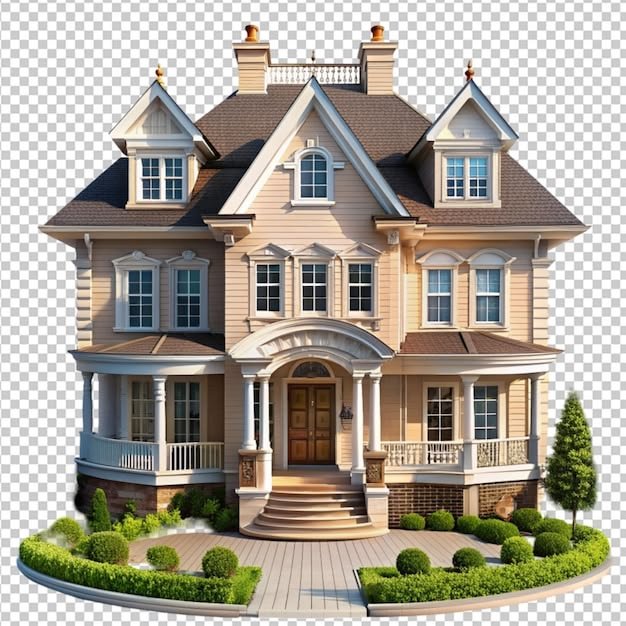
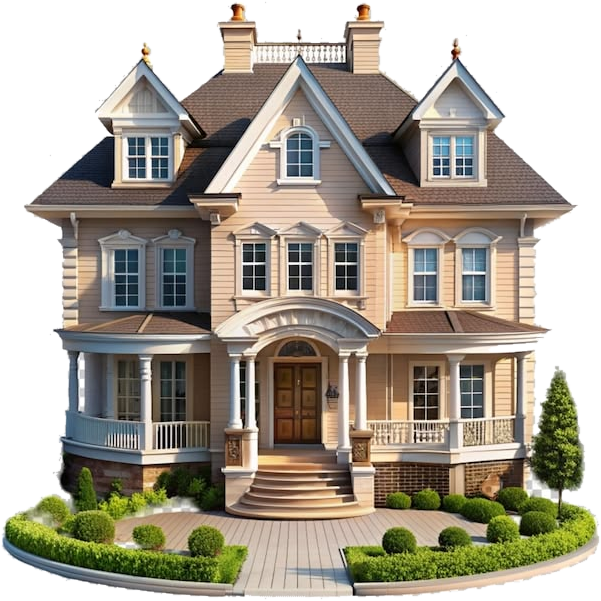
feat: adding hiding blocks function

diff --git a/apps/web/src/vinvite/templates/birthday-tuscan/template.html b/apps/web/src/vinvite/templates/birthday-tuscan/template.html
@@ -159,7 +159,20 @@ section{position:relative;padding:5.5rem 1.4rem;overflow:hidden;}
 }
 .hero-mansion.up{transform:translateX(-50%) translateY(0);opacity:1;}
 .hero-mansion.empty{display:none;}
-.hero-content{position:relative;z-index:5;padding:1.4rem;max-width:440px;}
+
+/* Blocks switched off in the builder (hidden.<key> === true). */
+.opt-off{display:none!important;}
+
+/* Mandatory V-connect attribution — shown on every invitation. */
+#vconnect{
+  position:relative;z-index:4;display:flex;flex-direction:column;align-items:center;gap:.7rem;
+  padding:2.2rem 1.2rem 2.6rem;background:#0b1018;color:var(--cream);text-align:center;
+  border-top:1px solid rgba(233,210,154,.14);
+}
+#vconnect img{width:64px;height:64px;display:block;opacity:.95;}
+#vconnect span{font-size:.82rem;letter-spacing:.06em;text-transform:uppercase;opacity:.75;font-family:'Cormorant Garamond',Georgia,serif;}
+/* Sits a little below centre so the name clears the bright upper sky. */
+.hero-content{position:relative;z-index:5;padding:1.4rem;max-width:440px;margin-top:9svh;}
 .hero-content .overline{color:var(--cream);opacity:0;transform:translateY(14px);transition:all 1s var(--ease) .3s;}
 .hero-name{
   font-family:'Great Vibes',cursive;font-size:clamp(3.4rem,20vw,7rem);line-height:1.05;margin:.4rem 0;
@@ -450,7 +463,7 @@ img.broken{background:linear-gradient(135deg,var(--sage-soft),var(--champagne));
       <div class="overline" data-t="youAreInvited">Приглашение</div>
       <div class="calligraphy" data-bind="honoreeName"></div>
       <div class="env-card-rule"></div>
-      <div class="overline" data-bind="ageLabel"></div>
+      <div class="overline" data-opt="age" data-bind="ageLabel"></div>
     </div>
     <div class="env-flap" aria-hidden="true">
       <svg viewBox="0 0 380 140" preserveAspectRatio="none">
@@ -496,7 +509,7 @@ img.broken{background:linear-gradient(135deg,var(--sage-soft),var(--champagne));
       <p class="overline" data-bind="heroKicker"></p>
       <h1 class="hero-name" data-bind="honoreeName"></h1>
       <p class="hero-sub" data-bind="heroSub"></p>
-      <p class="hero-age" data-bind="ageLabel"></p>
+      <p class="hero-age" data-opt="age" data-bind="ageLabel"></p>
       <p class="hero-meta">
         <span data-bind="dateLong"></span>
         <span class="dot">·</span>
@@ -511,7 +524,7 @@ img.broken{background:linear-gradient(135deg,var(--sage-soft),var(--champagne));
   </section>
 
   <!-- Invitation message -->
-  <section id="message">
+  <section id="message" data-opt="message">
     <div class="wrap">
       <p class="overline section-kicker reveal" data-t="withWarmth">С теплом и радостью</p>
       <div class="msg-lines">
@@ -532,7 +545,7 @@ img.broken{background:linear-gradient(135deg,var(--sage-soft),var(--champagne));
   </section>
 
   <!-- Countdown -->
-  <section id="countdown">
+  <section id="countdown" data-opt="countdown">
     <div class="wrap">
       <p class="overline section-kicker reveal" data-t="countingDays">Считаем дни</p>
       <h2 class="section-title reveal reveal-d1" data-t="untilWeCelebrate">До праздника</h2>
@@ -552,7 +565,7 @@ img.broken{background:linear-gradient(135deg,var(--sage-soft),var(--champagne));
   </section>
 
   <!-- Details -->
-  <section id="details">
+  <section id="details" data-opt="details">
     <div class="wrap">
       <p class="overline section-kicker reveal" data-t="theParticulars">Детали</p>
       <h2 class="section-title reveal reveal-d1" data-t="eventDetails">О празднике</h2>
@@ -579,7 +592,7 @@ img.broken{background:linear-gradient(135deg,var(--sage-soft),var(--champagne));
   </section>
 
   <!-- Venue -->
-  <section id="venue">
+  <section id="venue" data-opt="venue">
     <div class="wrap">
       <p class="overline section-kicker reveal" data-t="whereWeGather">Где мы соберёмся</p>
       <h2 class="section-title reveal reveal-d1" data-bind="venueName"></h2>
@@ -598,7 +611,7 @@ img.broken{background:linear-gradient(135deg,var(--sage-soft),var(--champagne));
   </section>
 
   <!-- Gallery -->
-  <section id="gallery">
+  <section id="gallery" data-opt="gallery">
     <div class="wrap">
       <p class="overline section-kicker reveal" data-t="aGlimpse">Моменты</p>
       <h2 class="section-title reveal reveal-d1" data-t="galleryTitle">Галерея</h2>
@@ -617,7 +630,7 @@ img.broken{background:linear-gradient(135deg,var(--sage-soft),var(--champagne));
   </section>
 
   <!-- Program -->
-  <section id="program">
+  <section id="program" data-opt="program">
     <div class="wrap">
       <p class="overline section-kicker reveal" data-t="theEvening">Программа</p>
       <h2 class="section-title reveal reveal-d1" data-t="orderOfNight">Как пройдёт вечер</h2>
@@ -627,7 +640,7 @@ img.broken{background:linear-gradient(135deg,var(--sage-soft),var(--champagne));
   </section>
 
   <!-- Gifts + gift card -->
-  <section id="gifts">
+  <section id="gifts" data-opt="gifts">
     <div class="wrap">
       <div class="gifts-illus reveal" aria-hidden="true">
         <svg viewBox="0 0 24 24" fill="none" stroke="currentColor" stroke-width="1.3"><rect x="3" y="8" width="18" height="13" rx="1"/><path d="M3 12h18M12 8v13M12 8c-2-4-6-4-6-1s4 1 6 1c2 0 6 2 6-1s-4-3-6 1z"/></svg>
@@ -651,7 +664,7 @@ img.broken{background:linear-gradient(135deg,var(--sage-soft),var(--champagne));
   </section>
 
   <!-- RSVP -->
-  <section id="rsvp">
+  <section id="rsvp" data-opt="rsvp">
     <div class="wrap">
       <p class="overline section-kicker reveal" data-t="kindlyRespond">Пожалуйста, ответьте</p>
       <h2 class="section-title reveal reveal-d1">RSVP</h2>
@@ -702,7 +715,7 @@ img.broken{background:linear-gradient(135deg,var(--sage-soft),var(--champagne));
   </section>
 
   <!-- Contacts -->
-  <section id="contacts">
+  <section id="contacts" data-opt="contacts">
     <div class="wrap">
       <p class="overline section-kicker reveal" data-t="questions">Остались вопросы?</p>
       <h2 class="section-title reveal reveal-d1" data-t="contactsTitle">Контакты</h2>
@@ -712,7 +725,7 @@ img.broken{background:linear-gradient(135deg,var(--sage-soft),var(--champagne));
   </section>
 
   <!-- Final scene -->
-  <section id="final">
+  <section id="final" data-opt="final">
     <div class="final-sky" id="finalSky" aria-hidden="true"></div>
     <img class="final-mansion empty" id="finalMansion" alt="" aria-hidden="true">
     <div id="particles" aria-hidden="true"></div>
@@ -723,9 +736,15 @@ img.broken{background:linear-gradient(135deg,var(--sage-soft),var(--champagne));
       <p class="final-love reveal reveal-d3" data-t="withLove">С любовью</p>
     </div>
   </section>
+
+  <!-- Mandatory attribution (not hideable) -->
+  <footer id="vconnect">
+    <img id="vconnectLogo" alt="V-connect" width="64" height="64">
+    <span data-t="developedBy">Разработано V-connect</span>
+  </footer>
 </main>
 
-<button id="music-btn" class="hidden" aria-pressed="false">
+<button id="music-btn" class="hidden" data-opt="music" aria-pressed="false">
   <span class="ic-play" aria-hidden="true">
     <svg width="20" height="20" viewBox="0 0 24 24" fill="currentColor"><path d="M8 5v14l11-7z"/></svg>
   </span>
@@ -773,7 +792,7 @@ var UI = {
     savedYes:'Мы очень рады! Ваш ответ получен.', savedNo:'Спасибо, что сообщили. Нам будет вас не хватать.',
     questions:'Остались вопросы?', contactsTitle:'Контакты',
     phone:'Телефон', telegram:'Telegram', instagram:'Instagram',
-    withLove:'С любовью', birthday:'День рождения', untilLate:'до позднего вечера'
+    withLove:'С любовью', developedBy:'Этот продукт разработан компанией V-connect', birthday:'День рождения', untilLate:'до позднего вечера'
   },
   uz: {
     youAreInvited:'Taklifnoma', tapToOpen:'Ochish uchun bosing', skipIntro:'Otkazib yuborish',
@@ -793,7 +812,7 @@ var UI = {
     savedYes:'Juda xursandmiz! Javobingiz qabul qilindi.', savedNo:'Xabar berganingiz uchun rahmat. Sizni soginamiz.',
     questions:'Savollaringiz bormi?', contactsTitle:'Kontaktlar',
     phone:'Telefon', telegram:'Telegram', instagram:'Instagram',
-    withLove:'Mehr bilan', birthday:'Tugilgan kun', untilLate:'kech tungacha'
+    withLove:'Mehr bilan', developedBy:'Ushbu mahsulot V-connect tomonidan ishlab chiqilgan', birthday:'Tugilgan kun', untilLate:'kech tungacha'
   },
   en: {
     youAreInvited:'You are invited', tapToOpen:'Tap to open', skipIntro:'Skip intro',
@@ -813,7 +832,7 @@ var UI = {
     savedYes:'We are delighted! Your response has been saved.', savedNo:'Thank you for letting us know. You will be missed.',
     questions:'Any questions?', contactsTitle:'Contacts',
     phone:'Phone', telegram:'Telegram', instagram:'Instagram',
-    withLove:'With love', birthday:'Birthday', untilLate:'until late'
+    withLove:'With love', developedBy:'This product was developed by V-connect', birthday:'Birthday', untilLate:'until late'
   }
 };
 
@@ -930,7 +949,8 @@ function playHero(){ hero.classList.add('play'); if (heroMansion) heroMansion.cl
    the builder (hero.mansionImage / hero.dayImage / hero.nightImage); otherwise
    we fall back to the bundled defaults served from the host origin. A mansion
    that fails to load (e.g. none provided) hides its layer gracefully. */
-var ASSET = (window.__ORIGIN__ || '') + '/tuscan/';
+var ORIGIN = (window.__ORIGIN__ || '');
+var ASSET = ORIGIN + '/tuscan/';
 var skyDay = $('#skyDay'), skyNight = $('#skyNight');
 var finalSky = $('#finalSky'), finalMansion = $('#finalMansion');
 function skyUrl(path, def){ var v = cfg(path, ''); return (typeof v === 'string' && v) ? v : (ASSET + def); }
@@ -950,6 +970,21 @@ function renderScene(){
   setBg(finalSky, skyUrl('hero.nightImage', 'night-sky.jpg'));
   setMansion(heroMansion);
   setMansion(finalMansion);
+  var logo = $('#vconnectLogo');
+  if (logo && !logo.getAttribute('src')) logo.setAttribute('src', ORIGIN + '/vconnect-logo.png');
+}
+
+/* Blocks switched off in the builder: config.hidden['<key>'] === true hides
+   every element tagged data-opt="<key>" (a whole section, or the age caption
+   wherever it appears) plus its dot in the side navigation. */
+function applyVisibility(){
+  var hid = cfg('hidden', {}) || {};
+  $$('[data-opt]').forEach(function(el){
+    el.classList.toggle('opt-off', hid[el.getAttribute('data-opt')] === true);
+  });
+  $$('#dotnav a').forEach(function(a){
+    a.classList.toggle('opt-off', hid[a.dataset.id] === true);
+  });
 }
 
 function heroScroll(){
@@ -1332,6 +1367,7 @@ window.addEventListener('scroll', function(){
 function renderAll(){
   bindTexts();
   renderScene();
+  applyVisibility();
   renderVenue();
   renderGallery();
   renderTimeline();

diff --git a/apps/web/src/vinvite/templates/birthday-tuscan/definition.ts b/apps/web/src/vinvite/templates/birthday-tuscan/definition.ts
@@ -8,6 +8,7 @@ import type { TemplateDefinition, TemplateField, TemplateFieldGroup } from '../t
 
 const groups: TemplateFieldGroup[] = [
   { key: 'hero', labelKey: 'tg_hero', icon: '🏛' },
+  { key: 'visibility', labelKey: 'tg_visibility', icon: '👁' },
   { key: 'honoree', labelKey: 'tg_honoree', icon: '🎂' },
   { key: 'invite', labelKey: 'tg_invite', icon: '✉' },
   { key: 'datetime', labelKey: 'tg_datetime', icon: '🗓' },
@@ -23,6 +24,20 @@ const fields: TemplateField[] = [
   { key: 'mansionImage', path: 'hero.mansionImage', type: 'image', group: 'hero', labelKey: 'fld_mansion' },
   { key: 'dayImage', path: 'hero.dayImage', type: 'image', group: 'hero', labelKey: 'fld_day_sky' },
   { key: 'nightImage', path: 'hero.nightImage', type: 'image', group: 'hero', labelKey: 'fld_night_sky' },
+
+  // Show/hide switches — the value stored is the HIDDEN flag.
+  { key: 'v_age', path: 'hidden.age', type: 'toggle', group: 'visibility', labelKey: 'sec_age' },
+  { key: 'v_message', path: 'hidden.message', type: 'toggle', group: 'visibility', labelKey: 'sec_message' },
+  { key: 'v_countdown', path: 'hidden.countdown', type: 'toggle', group: 'visibility', labelKey: 'sec_countdown' },
+  { key: 'v_details', path: 'hidden.details', type: 'toggle', group: 'visibility', labelKey: 'sec_details' },
+  { key: 'v_venue', path: 'hidden.venue', type: 'toggle', group: 'visibility', labelKey: 'sec_venue' },
+  { key: 'v_gallery', path: 'hidden.gallery', type: 'toggle', group: 'visibility', labelKey: 'sec_gallery' },
+  { key: 'v_program', path: 'hidden.program', type: 'toggle', group: 'visibility', labelKey: 'sec_program' },
+  { key: 'v_gifts', path: 'hidden.gifts', type: 'toggle', group: 'visibility', labelKey: 'sec_gifts' },
+  { key: 'v_rsvp', path: 'hidden.rsvp', type: 'toggle', group: 'visibility', labelKey: 'sec_rsvp' },
+  { key: 'v_contacts', path: 'hidden.contacts', type: 'toggle', group: 'visibility', labelKey: 'sec_contacts' },
+  { key: 'v_music', path: 'hidden.music', type: 'toggle', group: 'visibility', labelKey: 'sec_music' },
+  { key: 'v_final', path: 'hidden.final', type: 'toggle', group: 'visibility', labelKey: 'sec_final' },
 
   { key: 'name', path: 'honoree.name', type: 'localized-text', group: 'honoree', labelKey: 'fld_name' },
   { key: 'ageLabel', path: 'honoree.ageLabel', type: 'localized-text', group: 'honoree', labelKey: 'fld_age' },
@@ -64,6 +79,8 @@ const defaultConfig = {
   // (/tuscan/day-sky.jpg, night-sky.jpg; mansion.png if present). The honoree
   // can upload a transparent-PNG mansion and their own skies from the builder.
   hero: { mansionImage: '', dayImage: '', nightImage: '' },
+  // Blocks switched off by the honoree (key → true). Empty = everything shown.
+  hidden: {} as Record<string, boolean>,
   honoree: {
     name: { ru: 'Мадина', uz: 'Madina', en: 'Madina' },
     ageLabel: { ru: '30 лет', uz: '30 yosh', en: 'Thirty Years' },

diff --git a/apps/web/src/vinvite/i18n.ts b/apps/web/src/vinvite/i18n.ts
@@ -74,6 +74,19 @@ const dict = {
     fld_mansion: 'Mansion photo (transparent PNG)',
     fld_day_sky: 'Daytime sky photo',
     fld_night_sky: 'Nighttime sky photo',
+    tg_visibility: 'Blocks shown',
+    sec_age: 'Age caption',
+    sec_message: 'Invitation text',
+    sec_countdown: 'Countdown',
+    sec_details: 'Event details',
+    sec_venue: 'Venue & map',
+    sec_gallery: 'Photo gallery',
+    sec_program: 'Programme',
+    sec_gifts: 'Gifts & card',
+    sec_rsvp: 'RSVP form',
+    sec_contacts: 'Contacts',
+    sec_music: 'Music button',
+    sec_final: 'Closing scene',
     tg_honoree: 'Honoree',
     tg_invite: 'Invitation text',
     tg_datetime: 'Date & time',
@@ -208,6 +221,19 @@ const dict = {
     fld_mansion: 'Фото особняка (прозрачный PNG)',
     fld_day_sky: 'Дневное небо (фото)',
     fld_night_sky: 'Ночное небо (фото)',
+    tg_visibility: 'Отображаемые блоки',
+    sec_age: 'Возраст (подпись)',
+    sec_message: 'Текст приглашения',
+    sec_countdown: 'Обратный отсчёт',
+    sec_details: 'Детали праздника',
+    sec_venue: 'Место и карта',
+    sec_gallery: 'Фотогалерея',
+    sec_program: 'Программа',
+    sec_gifts: 'Подарки и карта',
+    sec_rsvp: 'Форма ответа',
+    sec_contacts: 'Контакты',
+    sec_music: 'Кнопка музыки',
+    sec_final: 'Финальная сцена',
     tg_honoree: 'Виновник торжества',
     tg_invite: 'Текст приглашения',
     tg_datetime: 'Дата и время',
@@ -342,6 +368,19 @@ const dict = {
     fld_mansion: 'Qasr surati (shaffof PNG)',
     fld_day_sky: 'Kunduzgi osmon surati',
     fld_night_sky: 'Tungi osmon surati',
+    tg_visibility: 'Korinadigan bloklar',
+    sec_age: 'Yosh (izoh)',
+    sec_message: 'Taklifnoma matni',
+    sec_countdown: 'Teskari sanoq',
+    sec_details: 'Bayram tafsilotlari',
+    sec_venue: 'Manzilgoh va xarita',
+    sec_gallery: 'Fotogalereya',
+    sec_program: 'Dastur',
+    sec_gifts: 'Sovgalar va karta',
+    sec_rsvp: 'Javob shakli',
+    sec_contacts: 'Kontaktlar',
+    sec_music: 'Musiqa tugmasi',
+    sec_final: 'Yakuniy sahna',
     tg_honoree: 'Bayram egasi',
     tg_invite: 'Taklifnoma matni',
     tg_datetime: 'Sana va vaqt',

diff --git a/apps/web/src/vinvite/RichEditorPage.tsx b/apps/web/src/vinvite/RichEditorPage.tsx
@@ -245,6 +245,24 @@ function FieldEditor({ field, design, setConfig }: {
           restaurantId=""
         />
       );
+    case 'toggle': {
+      // The stored value is the HIDDEN flag; the switch shows "visible".
+      const hidden = value === true;
+      return (
+        <label style={{ display: 'flex', alignItems: 'center', gap: 10, cursor: 'pointer' }}>
+          <input
+            type="checkbox"
+            checked={!hidden}
+            onChange={(e) => setConfig(field.path, !e.target.checked)}
+            style={{ width: 16, height: 16, accentColor: '#c9a42c', cursor: 'pointer' }}
+          />
+          <span style={{ fontSize: 13, color: hidden ? 'rgba(226,232,240,0.45)' : '#e2e8f0' }}>
+            {label}
+          </span>
+          <span style={{ marginLeft: 'auto', fontSize: 15 }}>{hidden ? '🚫' : '👁'}</span>
+        </label>
+      );
+    }
     case 'gallery':
       return <GalleryEditor field={field} design={design} setConfig={setConfig} />;
     case 'schedule':

diff --git a/apps/web/src/vinvite/templates/types.ts b/apps/web/src/vinvite/templates/types.ts
@@ -31,7 +31,10 @@ export type FieldType =
   | 'image'
   | 'audio'
   | 'gallery' // list of { image, caption (localized) }
-  | 'schedule'; // list of { time, label (localized) }
+  | 'schedule' // list of { time, label (localized) }
+  // Show/hide switch for a block. The value at `path` is the HIDDEN flag
+  // (true = hidden), so an unset config means everything is visible.
+  | 'toggle';
 
 export type TemplateField = {
   key: string;
